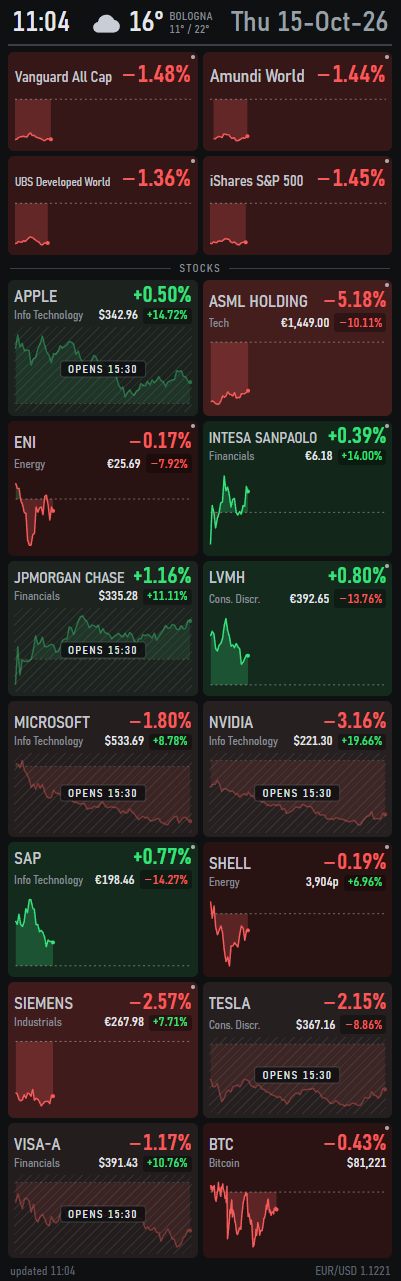
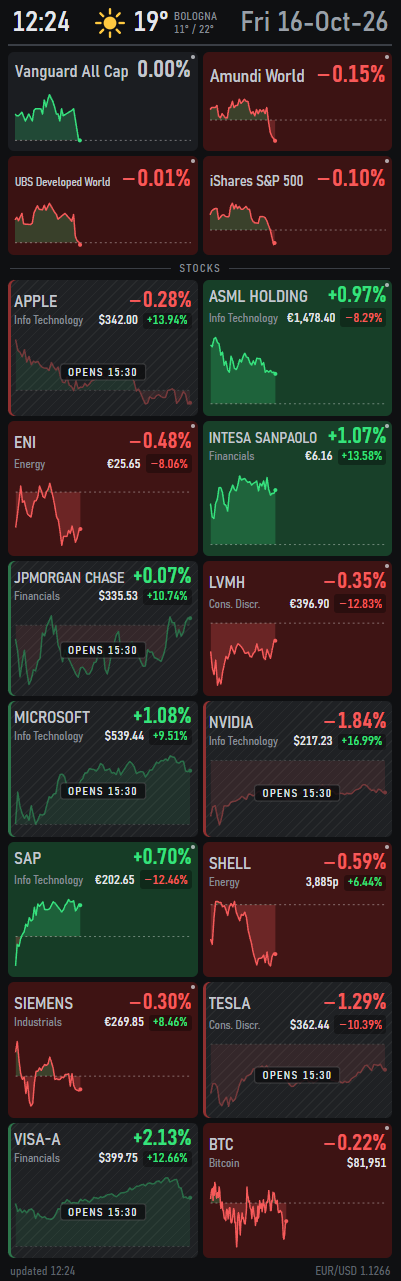
Grey out closed markets clearly
A closed market's tile is now neutral grey under fine hatching across the whole
tile, with a thin green or red edge on the left for the day's direction; before, its
muted tint was barely darker than an open tile with a small move, and on short tiles
the hatching (on the hidden chart) was gone. Open tiles are a little brighter, so the
two read apart at a glance. README text and screenshot updated.

diff --git a/web/panel.css b/web/panel.css
@@ -37,8 +37,8 @@ b { font-weight: 600; }
 
 /* ---- shared tile look ---- */
 .tile { border-radius: 6px; background: var(--tile); position: relative; overflow: hidden; }
-.tile.up { background: hsl(145 36% calc(10% + 8% * var(--k, 0))); }
-.tile.down { background: hsl(0 40% calc(11% + 8% * var(--k, 0))); }
+.tile.up { background: hsl(145 46% calc(14% + 9% * var(--k, 0))); }
+.tile.down { background: hsl(0 52% calc(15% + 9% * var(--k, 0))); }
 .lbl { font-size: 11px; color: var(--dim); letter-spacing: .6px; }
 .pos { color: var(--up); }
 .neg { color: var(--down); }
@@ -61,15 +61,15 @@ svg.sp { display: block; width: 100%; overflow: visible; }
 /* market open: a small dot in the corner */
 .tile.open::after { content: ''; position: absolute; top: 3px; right: 3px; width: 4px; height: 4px; border-radius: 50%; background: #e4e7eb; opacity: .7; }
 
-/* market closed: the tint loses its colour (a faint hint of green or red stays), the chart fades under fine
-   hatching and carries a CLOSED / OPENS 15:30 label. Names and numbers keep their colours. */
-.tile.closed.up { background: hsl(145 10% calc(12% + 2% * var(--k, 0))); }
-.tile.closed.down { background: hsl(0 10% calc(12% + 2% * var(--k, 0))); }
-.tile.closed .ch svg { opacity: .42; }
-.tile.closed .ch::after {
-  content: ''; position: absolute; inset: 0; pointer-events: none; border-radius: 3px;
-  background: repeating-linear-gradient(135deg, rgb(255 255 255 / .07) 0 1px, transparent 1px 6px);
+/* market closed: greyed out. A neutral grey tile under fine hatching, with only a thin green or red edge on the
+   left for the day's direction; the chart fades and carries a CLOSED / OPENS 15:30 label (on short tiles the
+   label takes the sector's place). Names and numbers keep their colours. */
+.tile.closed, .tile.closed.up, .tile.closed.down {
+  background: repeating-linear-gradient(135deg, rgb(255 255 255 / .045) 0 1px, transparent 1px 7px), #1f2124;
 }
+.tile.closed.up { box-shadow: inset 3px 0 0 hsl(145 45% 32%); }
+.tile.closed.down { box-shadow: inset 3px 0 0 hsl(0 50% 38%); }
+.tile.closed .ch svg { opacity: .4; }
 .mk {
   display: none; position: absolute; left: 50%; top: 50%; transform: translate(-50%, -50%); z-index: 1;
   font-size: 11px; letter-spacing: 1.4px; color: #dfe2e6; white-space: nowrap;

diff --git a/README.md b/README.md
@@ -25,9 +25,10 @@ the purchase price has its own green/red (on a dark pill), independent of the da
 charts the area above the dashed reference line (the previous close) is
 green and the area below it red. Quotes come from Yahoo Finance every minute.
 
-When a stock's or fund's market is **closed**, its tile loses its colour (only a faint hint of
-green or red stays), the chart fades under fine hatching and is labelled **CLOSED**, or
-**OPENS 15:30** (**OPENS MON 09:00**) when the next session is known. Names and numbers stay as
+When a stock's or fund's market is **closed**, its tile is greyed out: neutral grey under fine
+hatching, with only a thin green or red edge on the left for the day's direction. Its chart
+fades and is labelled **CLOSED**, or **OPENS 15:30** (**OPENS MON 09:00**) when the next session
+is known; on short tiles (long lists) the label takes the sector's place. Names and numbers stay as
 readable as ever, and show the last session. Open markets keep the full colour and a small
 white dot in the corner; the switch happens on the clock, the moment a market opens or closes.
 Bitcoin and currencies trade around the clock and are always open. Just after an open, until
